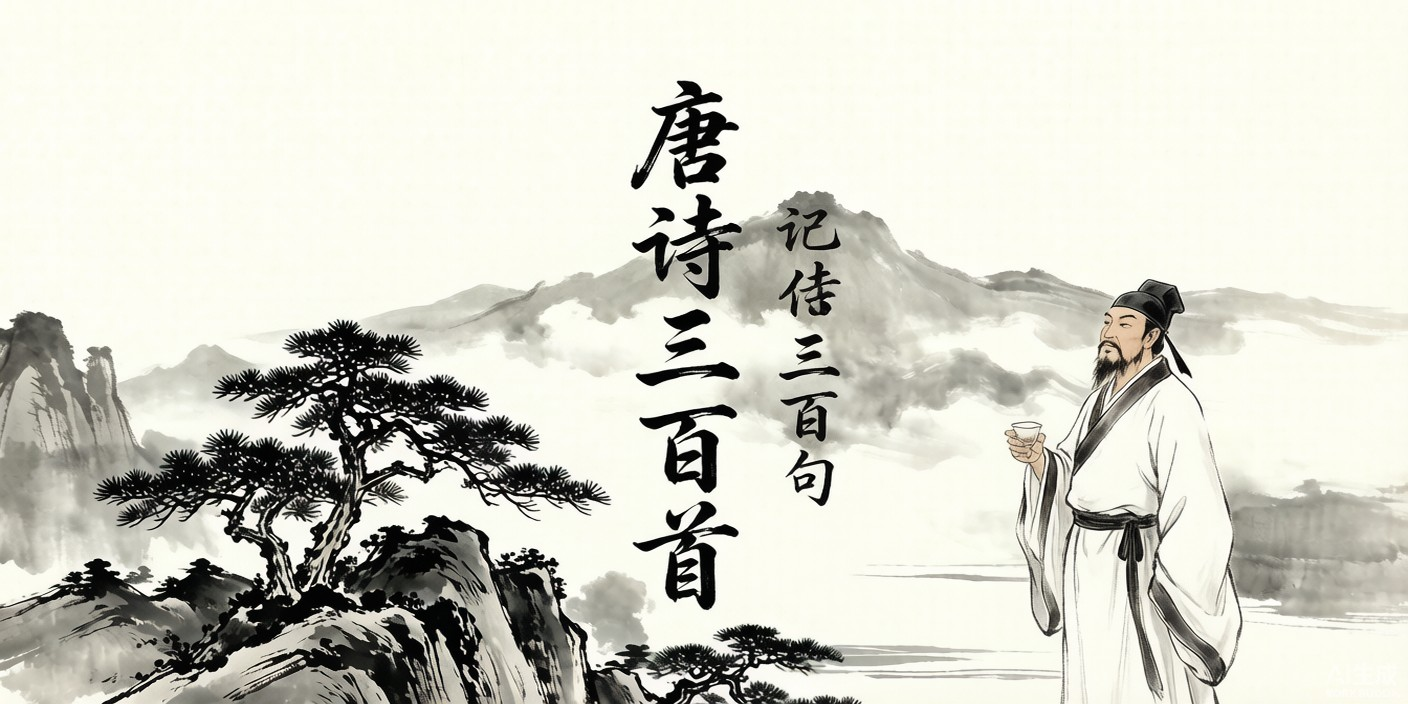
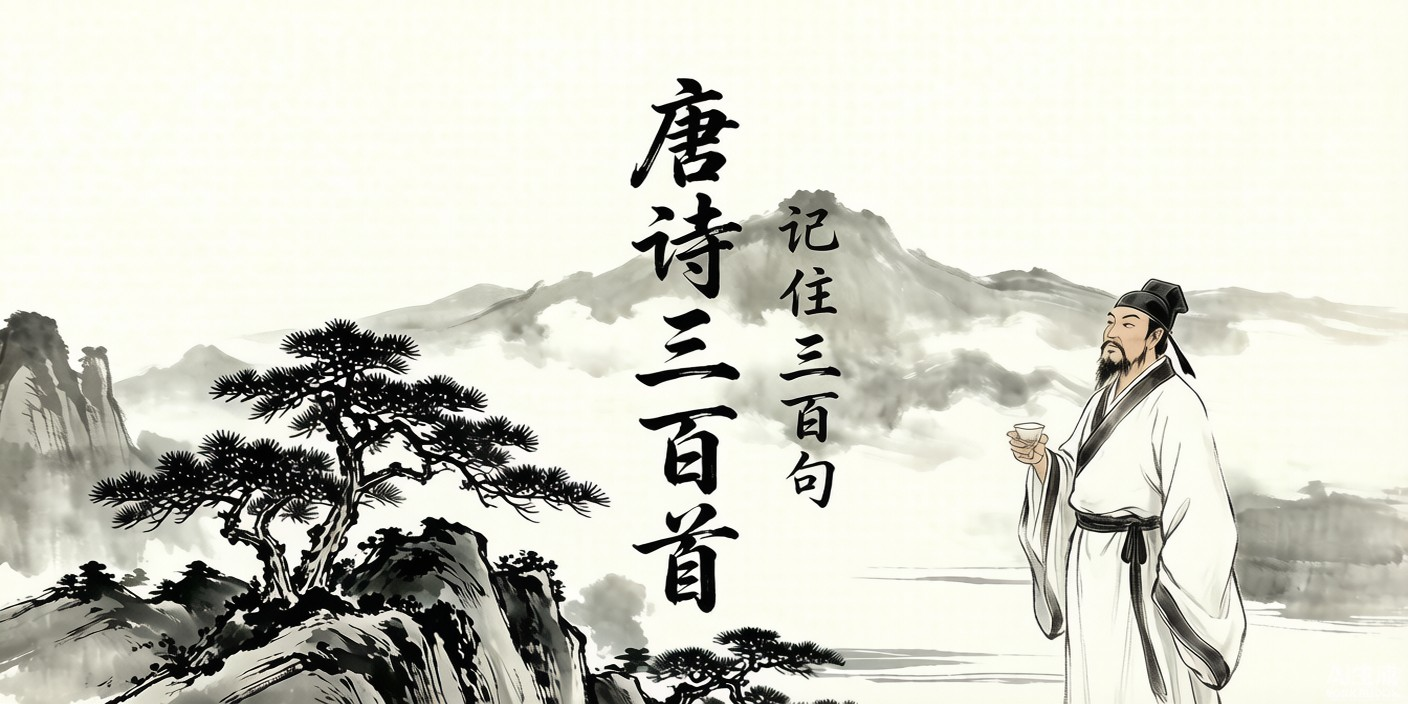
fix: 首页文字错误修正：'记待二百句'→'记住三百句' + cache v11

diff --git a/sw.js b/sw.js
@@ -1,5 +1,5 @@
 /* 600个绝美的诗词成语在线学习小工具 — Service Worker：离线缓存，让网页版在手机上像原生 App 一样可用 */
-const CACHE = "tang300-v10";  // v10: 统一命名为“唐诗300首，记住300句”，包括PDF、小工具标题、manifest等
+const CACHE = "tang300-v11";  // v11: 修复首页文字错误：将“记待二百句”改为“记住三百句”
 const CORE = [
   "./",
   "index.html",
